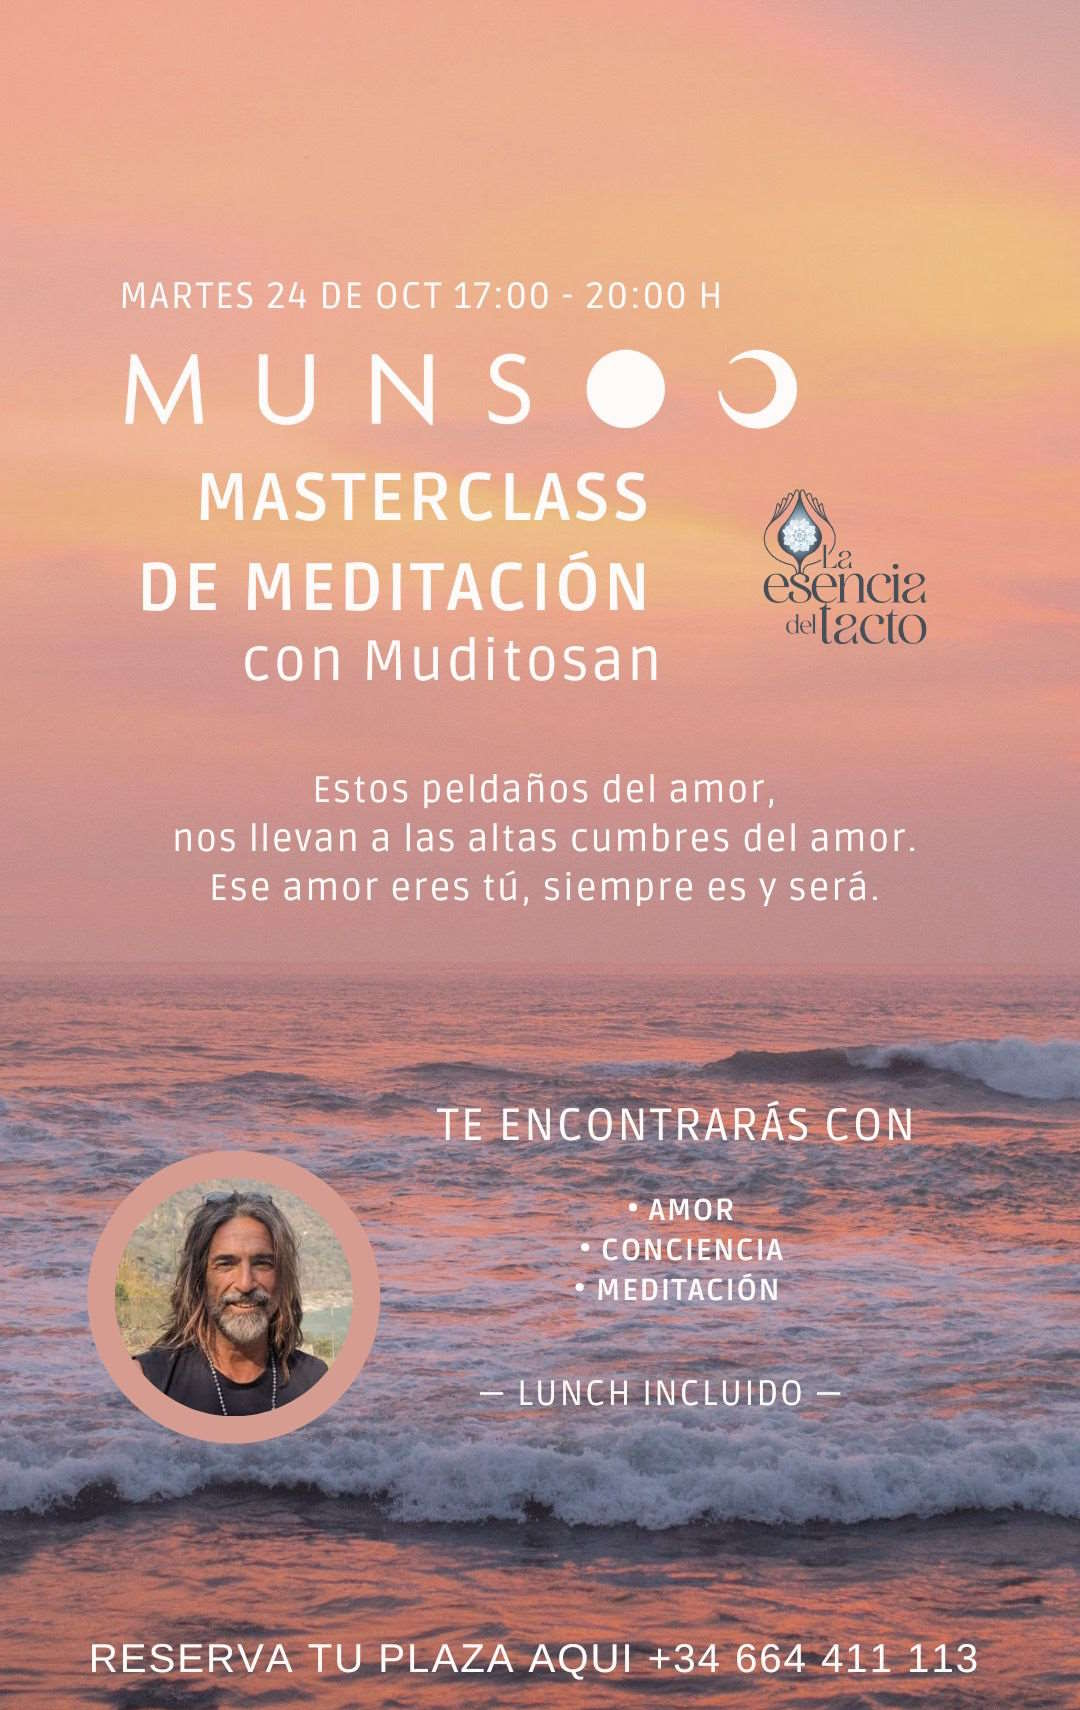
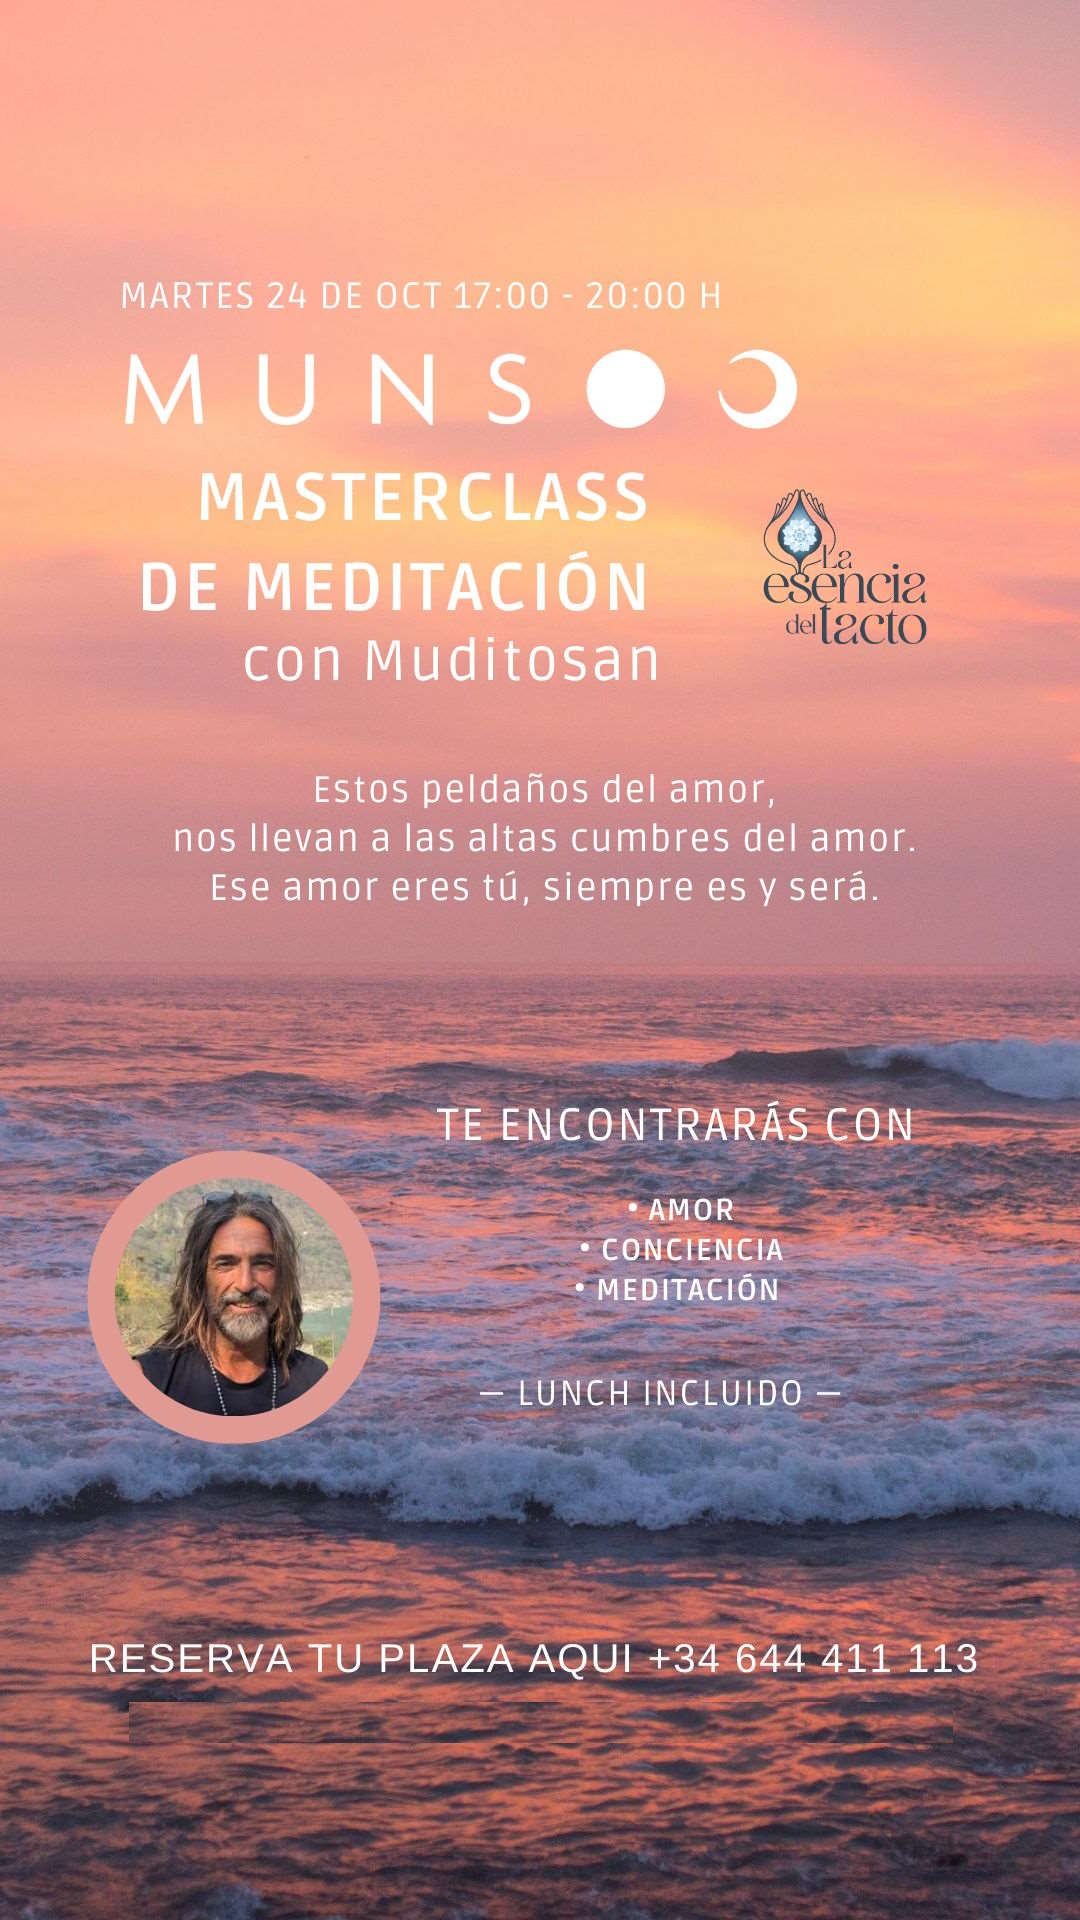
tlf mudito img arreglado. Se elimina link obsoleto de "Nuestra carta"

diff --git a/index.html b/index.html
@@ -69,10 +69,7 @@
               <div class="carousel-content">
                 <div class="carousel-content">
                   <a href=""><img src="assets/img/front_logo.png" alt="MunsooLogo" id="front_logo" class="img-fluid"></a>
-                </div>
-                <div>
-                  <a href="#menu" class="btn-menu animate__animated animate__fadeInUp scrollto">Nuestra Carta</a>
-                </div>
+                </div>                 
               </div>
             </div>
           </div>
